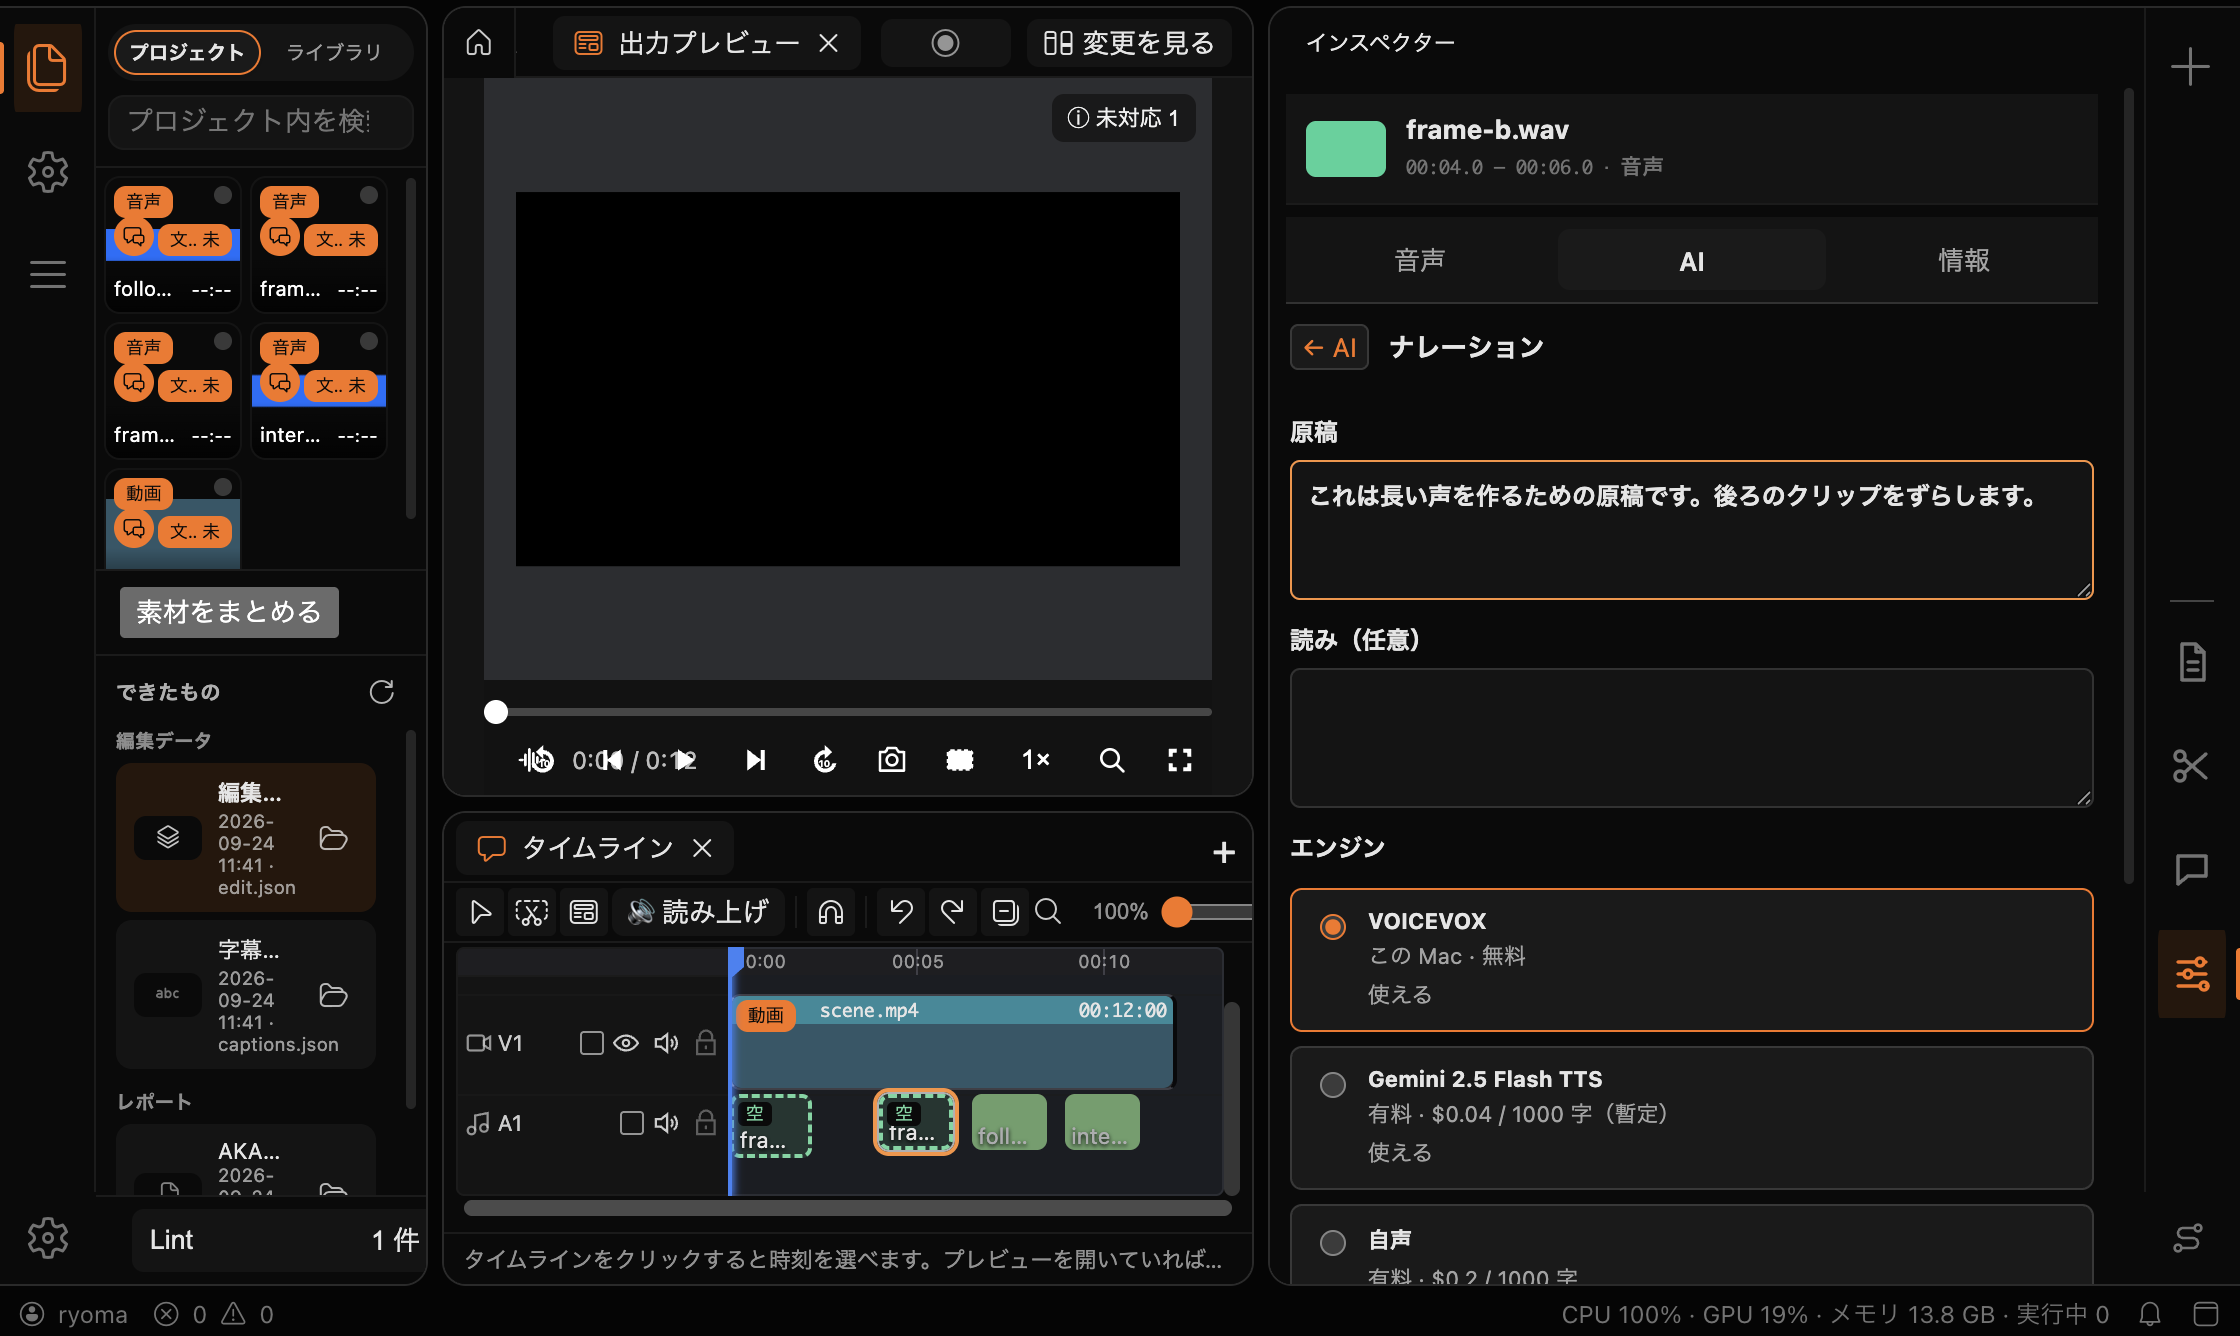
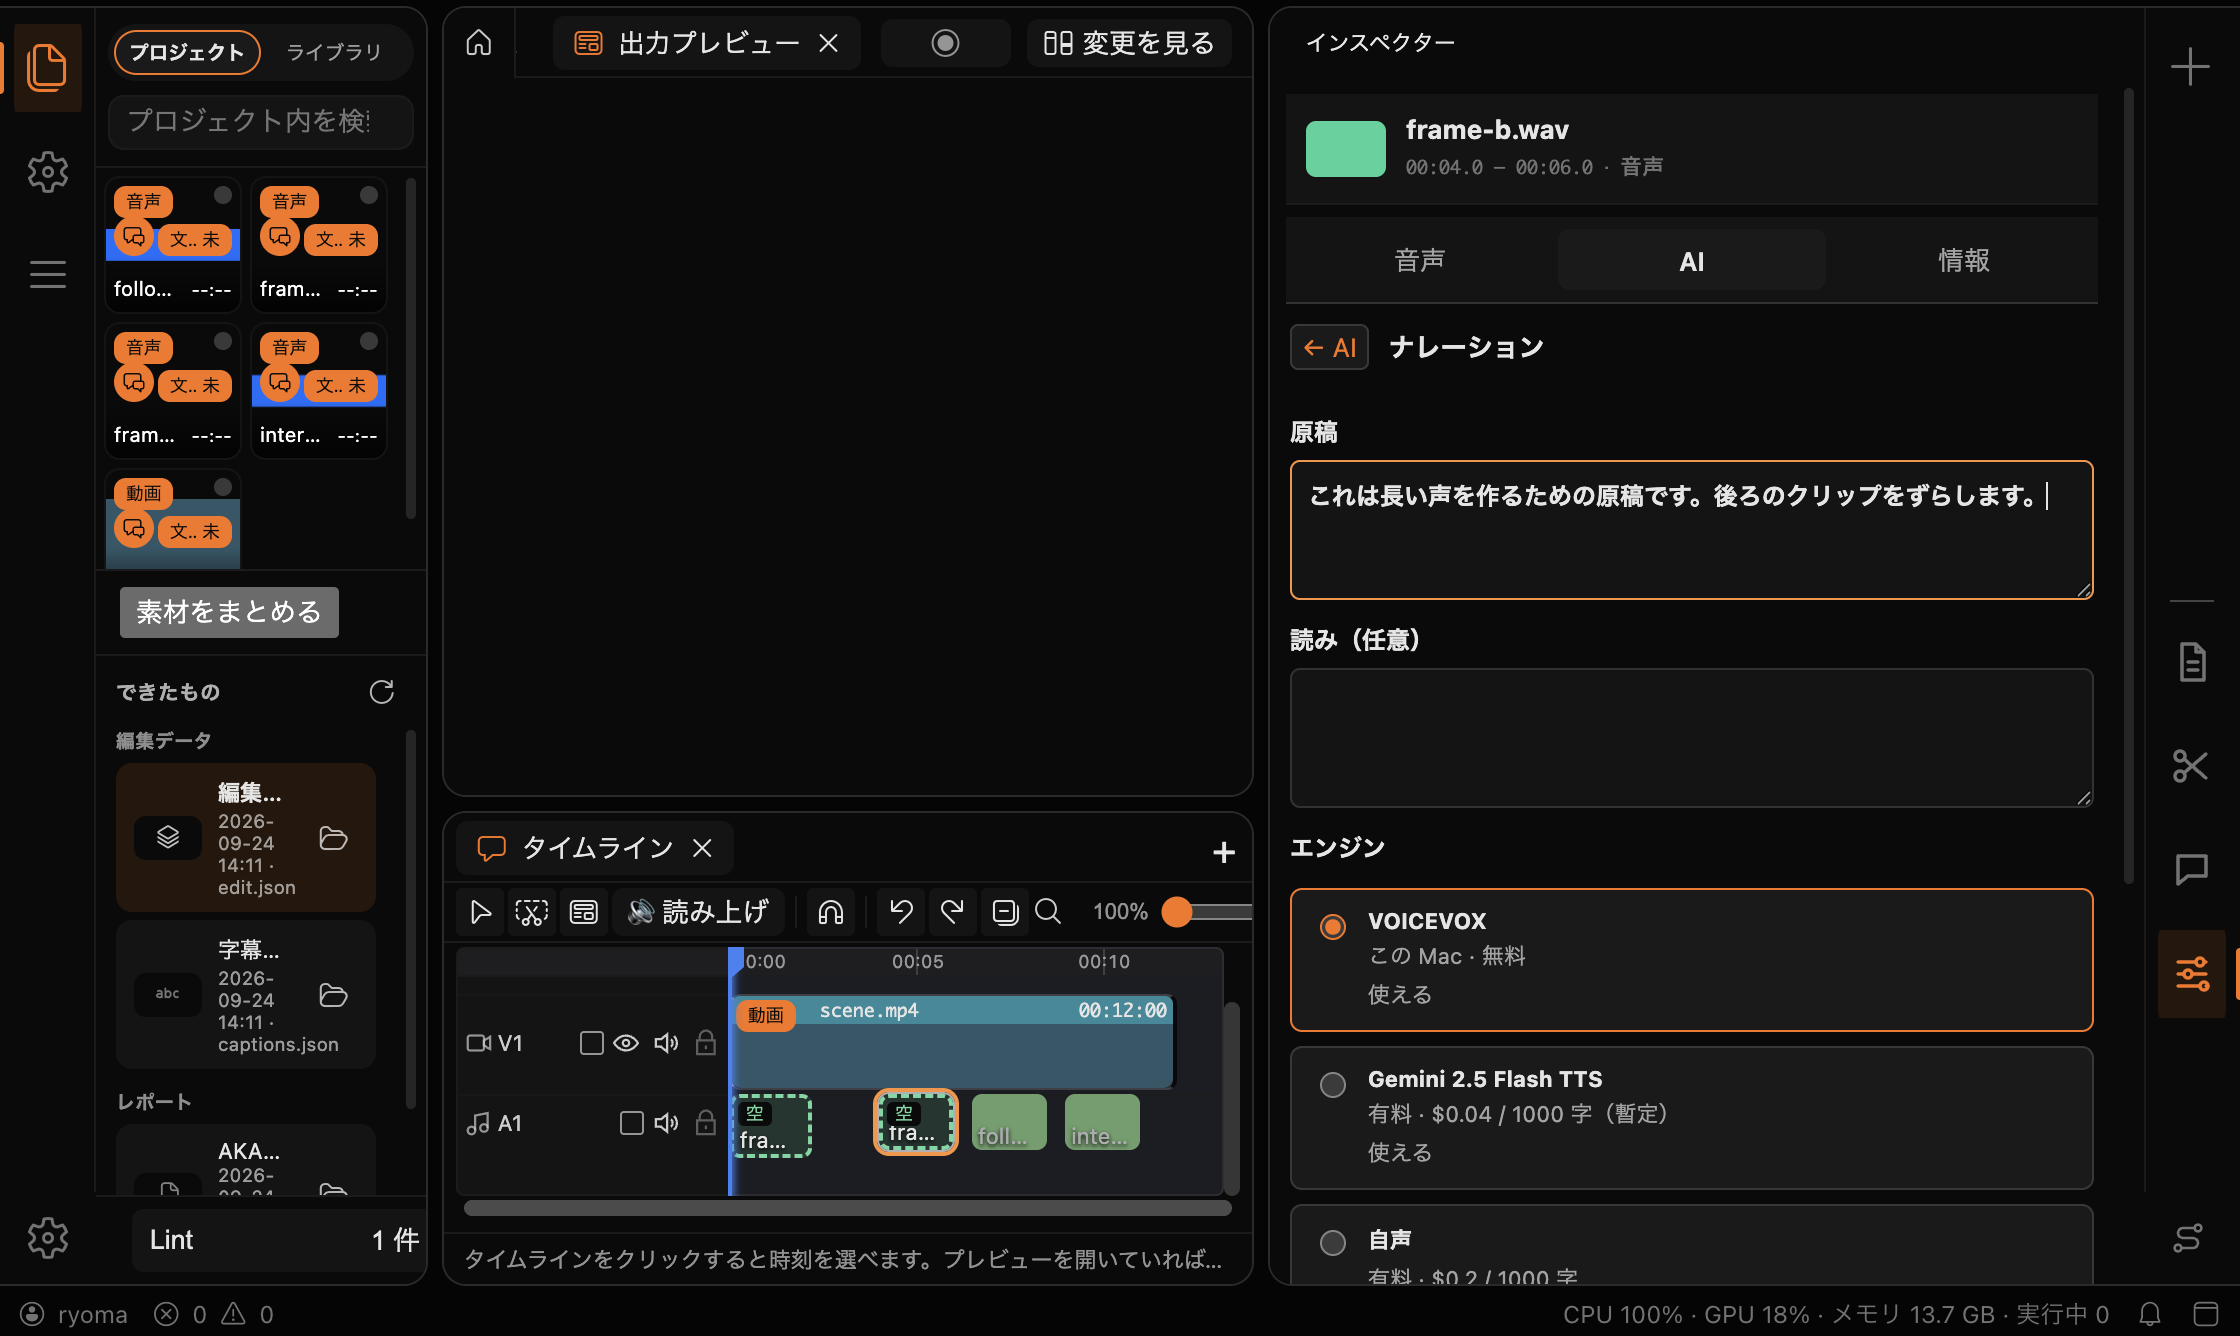
[修正] task/2026-09-24-ai-narration-polish r1 — ナレーションを置いた直後に古い edit のキャッシュで置き先の 1 行が消える回帰を直す（L1 は (1)(2) まで・BLOCKED）
- startAiNarration: commitEditMutation で置いた直後に edit の版を進め、
  narrationEditSnapshot / narrationVerified / narrationPlacementContext を捨て、
  置いた後に読み直した edit の sourcePath を narrationSourcePath に立てる。
  後から届く edit.json の変更イベントで verify が読み直しても 1 行は残る。
  undo / redo はタイムラインの書き戻しによる edit.json の変更イベントで版が進み、読み直す
- テスト 2 本を追加: 古いキャッシュがあっても置いた直後に 1 行が出て、変更イベント後も残り、
  undo で消える / 音声以外の文字起こしはナレーションのキャッシュを使わず毎回読む
- L1 スクリプト: 高負荷向けの settle（進捗の毎秒更新を除外）・undo 後の比較を構造一致に・
  キャンセルを文言で特定・承認ダイアログを .dialogBlock で特定・経過秒の正規表現が
  テンプレートリテラルで \d を失っていた不具合を [0-9] に・02/03 の SS 前に DOM の描き変わりを待つ
- evidence: L1 r1 の 2 回目の実測（01〜03 と error-full・results.json = FAIL（経過秒の待ち））

編集は codex（gpt-6-sol / high、task-muf0tkx9-ldab4i・task-muf2wqme-llv6p5）。

Changed region(s): [[0.2188, 0.0614, 0.5625, 0.5831], [0.6875, 0.982, 0.8125, 1.0], [0.8438, 0.982, 0.875, 1.0]]

diff --git a/apps/shell/extensions/akari-annotations/src/browser/akari-inspector-widget.ts b/apps/shell/extensions/akari-annotations/src/browser/akari-inspector-widget.ts
@@ -5261,8 +5261,14 @@ export class AkariInspectorWidget extends BaseWidget {
                 confirm: message => new ConfirmDialog(message).open(),
                 commit: (name, mutate) => timeline.commitEditMutation!(name, mutate), fps });
             if (label) {
+                // The edit.json event may arrive after this read. Do not reuse the pre-placement snapshot.
+                this.narrationEditVersion = (this.narrationEditVersion ?? 0) + 1;
+                this.narrationEditSnapshot = undefined;
+                this.narrationVerified = undefined;
+                this.narrationPlacementContext = undefined;
                 const placedEdit = JSON.parse((await this.fileService.readFile(root.resolve('edit.json'))).value.toString());
                 const sourcePath = aiNarrationSourcePath(placedEdit, itemId);
+                this.narrationSourcePath = sourcePath;
                 state.placement = label;
                 this.narrationPlacementNotice = sourcePath ? { clipKey: key, sourcePath, label } : undefined;
                 this.audioPlanned = false;
